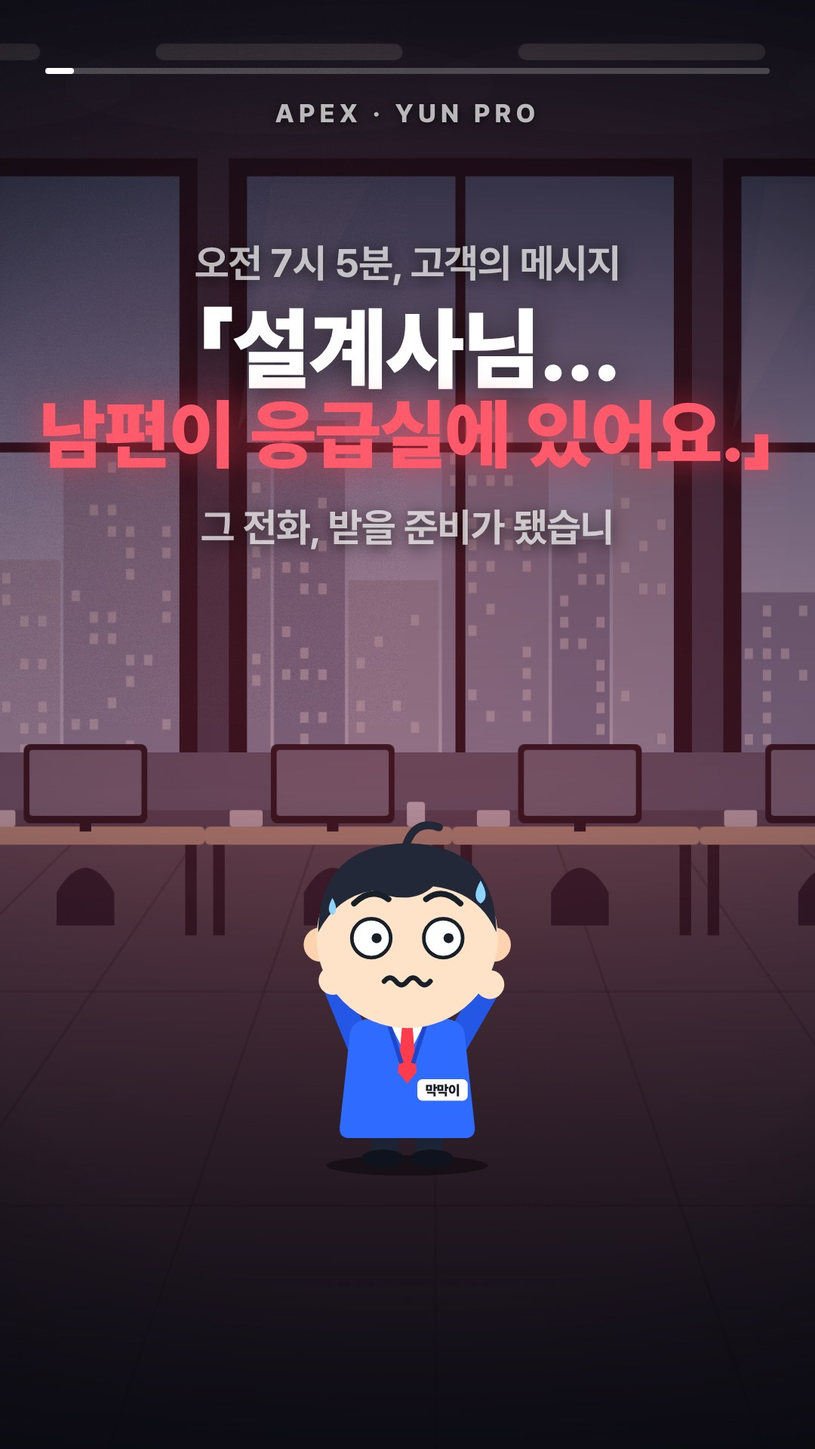
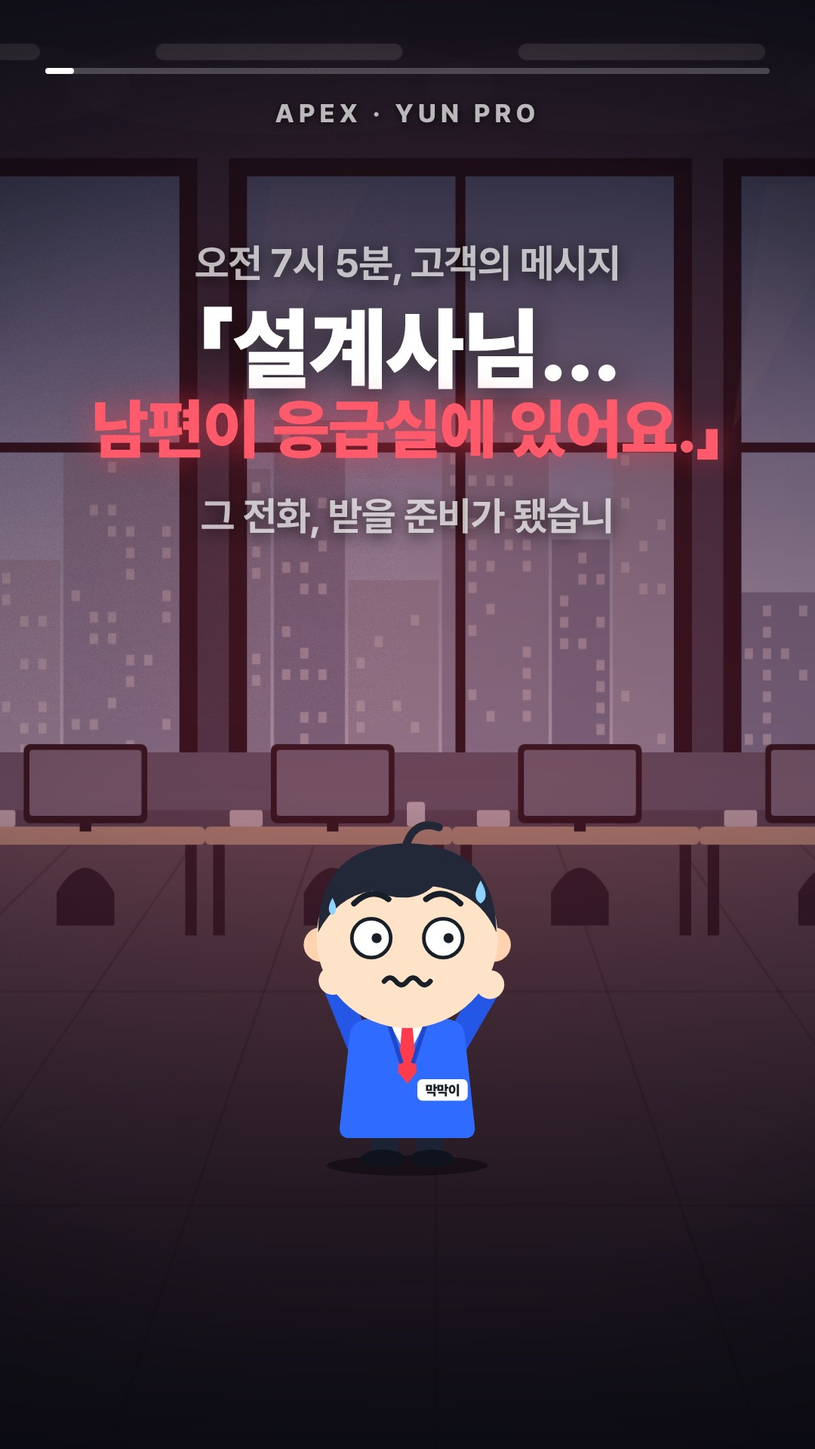
🎬 리쿠르팅 릴스 「전문가를 만듭니다」 — 교육시스템 EM 다섯 챕터 (56초 · 다른 결: 검정 + 금색 다큐형)
- 01 성장 방식(아카데미 · 지인 8주) · 02 관리 방식(TFA 업무관리 · 4년 유지관리) · 03 비대면 상담자료 · 04 미끼 레이더 · 05 상품전략 소식지
- 화면은 전부 실제 앱 · 상품전략기는 상품 145개 · 보험사 31곳 이름을 ○○ 로 바꿔 찍었다
- 「끝까지」 심혈관 편 첫 화면 글씨를 줄여 다시 구움

Claude-Session: https://claude.ai/code/session_01YU4NdkzcuZmggV9ApTAPCn

Changed region(s): [[0.0306, 0.25, 0.9472, 0.375]]

diff --git a/outputs/리쿠르팅릴스/expert.html b/outputs/리쿠르팅릴스/expert.html
@@ -1,0 +1,252 @@
+<!doctype html>
+<html lang="ko">
+<head>
+<meta charset="utf-8">
+<title>전문가를 만듭니다</title>
+<link rel="stylesheet" href="https://cdn.jsdelivr.net/gh/orioncactus/pretendard@v1.3.9/dist/web/static/pretendard.css">
+<style>
+/* 「전문가를 만듭니다」 — 교육시스템 EM 의 다섯 시스템. 끝까지 릴스(story.html)와 다른 결:
+   캐릭터·사무실 없이 검정 + 금색의 다큐형 다섯 챕터. 화면은 전부 <b>실제 앱</b>(shots/em_*) 이고
+   상품·보험사 이름은 찍을 때 ○○ 로 가렸다. 1080×1920 · 30fps · 시간은 render(t) 하나가 정한다. */
+:root{--bg:#06080D;--ink:#fff;--gold:#D9B26A;--gold2:#F3D99A;--sub:rgba(255,255,255,.66);--blue:#6E9BFF;--green:#5BE3A0;--red:#FF6B7A}
+*{box-sizing:border-box;margin:0;padding:0}
+html,body{width:1080px;height:1920px;overflow:hidden;background:var(--bg)}
+body{font-family:Pretendard,sans-serif;color:var(--ink);letter-spacing:-.04em;word-break:keep-all}
+#stage{position:absolute;inset:0;overflow:hidden;background:radial-gradient(1200px 1000px at 50% 30%,#141A2A 0%,#07090F 60%,#030407 100%)}
+#dust,#grain{position:absolute;inset:0;pointer-events:none}
+#grain{opacity:.05;mix-blend-mode:overlay}
+#sweep{position:absolute;top:-400px;left:-600px;width:500px;height:2800px;background:linear-gradient(90deg,transparent,rgba(243,217,154,.10),transparent);transform:rotate(18deg);pointer-events:none}
+#bignum{position:absolute;right:-30px;top:170px;font-size:520px;font-weight:900;line-height:1;color:transparent;-webkit-text-stroke:3px rgba(217,178,106,.18);letter-spacing:-.06em;pointer-events:none}
+#cam{position:absolute;inset:0;transform-origin:50% 45%}
+.scene{position:absolute;inset:0;display:none;flex-direction:column;align-items:center;justify-content:flex-start;padding:330px 70px 420px;text-align:center}
+.scene.mid{justify-content:center}
+.el{display:block;will-change:transform,opacity;white-space:nowrap}
+.big{font-weight:900;line-height:1.06;text-shadow:0 8px 40px rgba(0,0,0,.6)}
+.mdl{font-weight:800;line-height:1.18}
+.sub{font-weight:600;color:var(--sub)}
+.gd{color:var(--gold2);text-shadow:0 0 50px rgba(217,178,106,.45)}
+.hl{color:var(--blue)}.hgr{color:var(--green)}.hr{color:var(--red)}
+.rule{width:120px;height:4px;background:linear-gradient(90deg,transparent,var(--gold),transparent);margin:34px auto}
+.em{display:inline-block;font-size:44px;font-weight:900;letter-spacing:.3em;color:var(--gold);border:2px solid rgba(217,178,106,.6);padding:14px 34px 14px 46px;border-radius:999px}
+.chips{margin-top:46px;white-space:normal;max-width:960px}
+.chip{display:inline-block;margin:10px 8px;padding:18px 28px;border-radius:18px;background:rgba(255,255,255,.05);border:1.5px solid rgba(217,178,106,.4);font-size:42px;font-weight:800}
+.chip b{color:var(--gold);margin-right:12px;font-weight:900}
+.chip.on{background:rgba(217,178,106,.16);border-color:var(--gold2);box-shadow:0 0 40px rgba(217,178,106,.35)}
+/* 챕터 머리 */
+.chno{font-size:34px;font-weight:900;letter-spacing:.32em;color:var(--gold)}
+.chti{font-size:92px;font-weight:900;margin-top:10px}
+.chsub{font-size:46px;font-weight:700;color:var(--sub);margin-top:14px}
+/* 실제 화면 — 가로 카드 / 세로 폰 */
+.card{position:absolute;left:50px;top:640px;width:980px;height:551px;border-radius:30px;overflow:hidden;background:#fff;box-shadow:0 60px 140px rgba(0,0,0,.7),0 0 0 2px rgba(217,178,106,.5),0 0 80px rgba(217,178,106,.18);transform-origin:50% 50%}
+.card img,.ph .sc img{position:absolute;left:0;top:0;width:100%;height:100%;object-fit:cover;object-position:top center}
+.ph{position:absolute;left:110px;top:610px;width:400px;height:840px;border-radius:56px;background:#05070B;border:10px solid #2A2F3A;box-shadow:0 60px 140px rgba(0,0,0,.7),0 0 0 2px rgba(217,178,106,.5);overflow:hidden}
+.ph .sc{position:absolute;inset:0;border-radius:46px;overflow:hidden;background:#fff}
+.tagdz{position:absolute;right:14px;top:12px;z-index:5;font-size:20px;font-weight:800;color:#fff;background:rgba(6,8,13,.78);padding:6px 14px;border-radius:10px}
+.cap{position:absolute;left:50px;right:50px;top:1240px;text-align:center}
+.cap .n{display:inline-block;font-size:30px;font-weight:900;color:var(--bg);background:var(--gold);border-radius:12px;padding:4px 14px;margin-bottom:14px}
+.cap .t{font-size:58px;font-weight:900;line-height:1.22;text-shadow:0 6px 30px rgba(0,0,0,.7)}
+.capR{position:absolute;left:560px;right:50px;top:760px;text-align:left}
+.capR .n{display:inline-block;font-size:30px;font-weight:900;color:var(--bg);background:var(--gold);border-radius:12px;padding:4px 14px;margin-bottom:18px}
+.capR .t{font-size:54px;font-weight:900;line-height:1.25;white-space:normal}
+.fine{position:absolute;left:70px;right:70px;bottom:400px;font-size:25px;line-height:1.55;color:rgba(255,255,255,.5);font-weight:500;text-align:center;white-space:normal}
+.pcard{width:920px;border-radius:40px;background:linear-gradient(160deg,#151B2B,#0B0F18);border:1.5px solid rgba(217,178,106,.55);padding:46px 50px;text-align:left;white-space:normal;box-shadow:0 50px 120px rgba(0,0,0,.6)}
+.pcard .top{display:flex;align-items:center;gap:34px}
+.pcard .av{width:180px;height:180px;border-radius:50%;flex:none;background:linear-gradient(135deg,#3A2E15,#D9B26A);color:#06080D;font-size:92px;font-weight:900;display:flex;align-items:center;justify-content:center;overflow:hidden}
+.pcard .av img{width:100%;height:100%;object-fit:cover}
+.pcard .nm{font-size:74px;font-weight:900}
+.pcard .tt{font-size:31px;font-weight:700;color:var(--sub);margin-top:10px;line-height:1.35}
+.pcard .qt{margin-top:32px;font-size:44px;font-weight:900;line-height:1.3;color:var(--gold2)}
+.pcard .ch{margin-top:24px;display:flex;flex-wrap:wrap;gap:12px}
+.pcard .ch span{font-size:29px;font-weight:800;background:rgba(255,255,255,.07);border:1px solid rgba(255,255,255,.15);border-radius:999px;padding:12px 22px}
+.box{display:inline-block;background:var(--gold);color:#06080D;padding:12px 30px;border-radius:16px}
+#bar{position:absolute;left:60px;right:60px;top:90px;height:6px;border-radius:6px;background:rgba(255,255,255,.14)}
+#bar i{display:block;height:100%;width:0;border-radius:6px;background:var(--gold)}
+#brand{position:absolute;left:0;right:0;top:126px;text-align:center;font-size:32px;font-weight:800;letter-spacing:.2em;color:rgba(217,178,106,.85)}
+#flash{position:absolute;inset:0;background:#F3D99A;opacity:0;pointer-events:none;mix-blend-mode:screen}
+</style>
+</head>
+<body>
+<div id="stage">
+  <canvas id="dust" width="1080" height="1920"></canvas>
+  <div id="sweep"></div>
+  <div id="bignum"></div>
+  <div id="cam">
+    <div class="scene mid" id="s0" data-t="0,3.2">
+      <span class="el mdl" style="font-size:96px" data-a="up" data-in="0.1">우리는 설계사를</span>
+      <span class="el big" style="font-size:150px;margin-top:14px" data-a="slam" data-in="0.75">뽑지 않습니다.</span>
+    </div>
+    <div class="scene mid" id="s1" data-t="3.2,6.4">
+      <span class="el big gd" style="font-size:190px" data-a="slam" data-in="3.3">전문가를</span>
+      <span class="el big" style="font-size:190px" data-a="slam" data-in="3.9">만듭니다.</span>
+    </div>
+    <div class="scene" id="s2" data-t="6.4,10">
+      <span class="el" data-a="pop" data-in="6.5"><span class="em">교육시스템 EM</span></span>
+      <div class="rule el" data-a="up" data-in="6.8"></div>
+      <span class="el mdl" style="font-size:70px" data-a="up" data-in="7.0">다섯 개의 시스템이</span>
+      <span class="el big" style="font-size:96px" data-a="slam" data-in="7.4">한 사람을 바꿉니다</span>
+      <div class="chips" id="chips0"></div>
+    </div>
+    <div id="chapters"></div>
+    <div class="scene mid" id="s8" data-t="41,45">
+      <div class="chips" id="chips1" style="margin:0 0 60px"></div>
+      <span class="el mdl" style="font-size:84px" data-a="up" data-in="42.4">다섯 개의 시스템,</span>
+      <span class="el big gd" style="font-size:132px;margin-top:10px" data-a="slam" data-in="43.0">한 사람의 전문가.</span>
+    </div>
+    <div class="scene" id="s9" data-t="45,49">
+      <span class="el mdl" style="font-size:66px" data-a="up" data-in="45.0">함께 걸어갈</span>
+      <span class="el big" style="font-size:104px;margin-bottom:46px" data-a="slam" data-in="45.4">리더를 소개합니다</span>
+      <div class="pcard el" data-a="drop" data-in="45.9">
+        <div class="top"><div class="av" id="pAv"></div><div><div class="nm" id="pNm"></div><div class="tt" id="pTt"></div></div></div>
+        <div class="qt" id="pQt"></div>
+        <div class="ch" id="pCh"></div>
+      </div>
+    </div>
+    <div class="scene mid" id="s10" data-t="49,51.8">
+      <span class="el mdl" style="font-size:92px" data-a="up" data-in="49.0">전문가는</span>
+      <span class="el mdl" style="font-size:92px" data-a="up" data-in="49.5">타고나지 않습니다.</span>
+      <span class="el big gd" style="font-size:170px;margin-top:40px" data-a="slam" data-in="50.3">만들어집니다.</span>
+    </div>
+    <div class="scene" id="s11" data-t="51.8,56">
+      <span class="el big" style="font-size:112px" data-a="slam" data-in="51.8">함께할 <span class="gd">설계사</span>를</span>
+      <span class="el big" style="font-size:112px" data-a="slam" data-in="52.2">찾습니다.</span>
+      <span class="el sub" style="font-size:54px;margin-top:30px" data-a="up" data-in="52.8">처음이어도 괜찮습니다.</span>
+      <span class="el" style="margin-top:44px" data-a="stamp" data-rot="-2" data-in="53.3"><span class="box" style="font-size:60px;font-weight:900" id="ctaAsk"></span></span>
+      <span class="el" id="ctaWho" style="font-size:38px;font-weight:900;letter-spacing:.04em;margin-top:30px;color:rgba(255,255,255,.88)" data-a="up" data-in="53.8"></span>
+      <div class="fine el" data-a="up" data-in="54.1">보험설계사로 일하려면 자격시험 합격과 등록 절차가 필요합니다. 수입은 활동과 성과에 따라 사람마다 다릅니다.<br>화면의 고객·숫자는 견본이며, 상품·보험사 이름은 가렸습니다.</div>
+    </div>
+  </div>
+  <div id="bar"><i></i></div>
+  <div id="brand">APEX · YUN PRO</div>
+  <canvas id="grain" width="540" height="960"></canvas>
+  <div id="flash"></div>
+</div>
+<script>
+// ───────── 나를 알리는 칸 (story.html 과 같은 값) ─────────
+var PROFILE={name:'윤시현',title:'에이플러스에셋 온탑본부 사업단장',career:'보험·재무설계 10년',
+  slogan:'보험을 파는 설계사가 아닌,<br>삶을 설계하는 설계사',channels:['▶ 유튜브 「윤단장의 보험시선」','📷 인스타그램'],
+  ask:'📩 DM 으로 면담 신청',handle:'',photo:''};
+
+// ───────── 다섯 챕터 — 실제 앱 화면 (kind: card 가로 · phone 세로) ─────────
+var CH=[
+ {no:'01',ti:'성장 방식',sub:'상품명이 아니라, 위험을 관리하는 사람으로',a:10,b:16,kind:'card',
+  it:[{src:'em_academy',t:'보험 마스터 아카데미 — 10단계<br><span class="gd">신입 6개월, 두 갈래로 갈립니다</span>'},
+      {src:'em_jiin',   t:'지인 8주 성장 프로그램<br><span class="gd">부탁하지 않고, 챙겨서</span> 가까워지는 법'}]},
+ {no:'02',ti:'관리 방식',sub:'오늘 할 일부터 4년 뒤까지',a:16,b:22,kind:'phone',
+  it:[{src:'em_tfa',  t:'TFA 업무관리<br>피드백 · 할 일 · 고객 체크<br><span class="gd">팀원 관리까지 한 칸에</span>'},
+      {src:'em_keep4',t:'4년 유지관리<br><span class="gd">48개월, 한 달도<br>비지 않게</span>'}]},
+ {no:'03',ti:'비대면 상담자료',sub:'만나지 않아도, 신뢰는 전해집니다',a:22,b:28,kind:'card',
+  it:[{src:'em_sd0',t:'내 이름 · 사진이 박힌<br><span class="gd">고객 상담자료</span>'},
+      {src:'em_sd1',t:'「가입까지가 아니라,<br><span class="gd">받으실 때까지</span>」'},
+      {src:'em_sd3',t:'고객이 직접 누르며 답하는<br><span class="gd">질문지</span>'}]},
+ {no:'04',ti:'미끼 레이더',sub:'작은 담보로, 큰 니즈를 엽니다',a:28,b:34,kind:'card',
+  it:[{src:'em_mikki', t:'하루 30분 루틴<br><span class="gd">뉴스 · 신상품 1건 · 고객 3명</span>'},
+      {src:'em_mktalk',t:'미끼상품&접촉전략 — 6파트 38강<br><span class="gd">기획·제작 윤시현 사업단장</span>'}]},
+ {no:'05',ti:'상품전략 소식지',sub:'소식지를 넣으면 — 전부 비교합니다',a:34,b:41,kind:'card',
+  it:[{src:'em_ins_home', t:'보험사 31곳 · 145개 상품을<br><span class="gd">고객 입장에서 다시 읽었습니다</span>'},
+      {src:'em_ins_terms',t:'같은 조건을 나란히 —<br><span class="gd">약관 원문으로 비교</span>'}]}
+];
+var CHIPS=CH.map(function(c){return '<span class="el chip" style="display:inline-block" data-a="pop"><b>'+c.no+'</b>'+c.ti+'</span>';}).join('');
+document.getElementById('chips0').innerHTML=CHIPS; document.getElementById('chips1').innerHTML=CHIPS;
+[].slice.call(document.querySelectorAll('#chips0 .chip')).forEach(function(e,i){e.setAttribute('data-in',(7.9+i*0.18).toFixed(2));});
+[].slice.call(document.querySelectorAll('#chips1 .chip')).forEach(function(e,i){e.setAttribute('data-in',(41.1+i*0.22).toFixed(2));});
+var h='';
+CH.forEach(function(c,k){
+  var a=c.a,b=c.b,n=c.it.length,t0=a+0.7,dl=(b-t0-0.1)/n; c.t0=t0; c.dl=dl;
+  h+='<div class="scene" id="ch'+k+'" data-t="'+a+','+b+'">'+
+    '<span class="el chno" data-a="up" data-in="'+a+'">CHAPTER '+c.no+'</span>'+
+    '<span class="el chti" data-a="slam" data-in="'+(a+0.15)+'">'+c.ti+'</span>'+
+    '<span class="el chsub" data-a="up" data-in="'+(a+0.45)+'">'+c.sub+'</span>'+
+    (c.kind==='card'
+      ? '<div class="card el" data-a="tilt" data-in="'+(a+0.3)+'"><span class="tagdz">실제 앱 · 견본</span><div id="cd'+k+'"></div></div>'+
+        '<div class="cap" id="cp'+k+'"><span class="n" id="cn'+k+'"></span><div class="t" id="ct'+k+'"></div></div>'
+      : '<div class="ph el" data-a="tilt" data-in="'+(a+0.3)+'"><div class="sc" id="cd'+k+'"></div></div>'+
+        '<div class="capR" id="cp'+k+'"><span class="n" id="cn'+k+'"></span><div class="t" id="ct'+k+'"></div></div>')+
+    '</div>';
+});
+document.getElementById('chapters').innerHTML=h;
+CH.forEach(function(c,k){
+  var box=document.getElementById('cd'+k);
+  box.innerHTML=c.it.map(function(d){return '<img src="shots/'+d.src+'.jpg">';}).join('');
+  c.imgs=[].slice.call(box.querySelectorAll('img'));
+});
+(function(){var av=document.getElementById('pAv');
+  if(PROFILE.photo)av.innerHTML='<img src="'+PROFILE.photo+'">';else av.textContent=PROFILE.name.charAt(0);
+  document.getElementById('pNm').textContent=PROFILE.name;
+  document.getElementById('pTt').innerHTML=PROFILE.title+'<br>'+PROFILE.career;
+  document.getElementById('pQt').innerHTML='“'+PROFILE.slogan+'”';
+  document.getElementById('pCh').innerHTML=PROFILE.channels.concat(PROFILE.handle?[PROFILE.handle]:[]).map(function(c){return '<span>'+c+'</span>';}).join('');
+  document.getElementById('ctaAsk').textContent=PROFILE.ask;
+  document.getElementById('ctaWho').textContent=(PROFILE.handle?PROFILE.handle+' · ':'')+PROFILE.name+' · '+PROFILE.title;})();
+
+var TOTAL=56, BEAT=0.5;
+function clamp(x,a,b){return x<a?a:x>b?b:x;}
+function eo(x){return 1-Math.pow(1-x,3);}
+function eio(x){return x<.5?4*x*x*x:1-Math.pow(-2*x+2,3)/2;}
+function back(x){var c=1.9;return 1+(c+1)*Math.pow(x-1,3)+c*Math.pow(x-1,2);}
+function rnd(n){var x=Math.sin(n*12.9898)*43758.5453;return x-Math.floor(x);}
+var scenes=[].slice.call(document.querySelectorAll('.scene')).map(function(s){var r=s.getAttribute('data-t').split(',').map(Number);
+  return {el:s,a:r[0],b:r[1],items:[].slice.call(s.querySelectorAll('.el'))};});
+
+function anim(e,t){
+  var a=e.getAttribute('data-a'),t0=+e.getAttribute('data-in'),d=t-t0;
+  if(d<0){e.style.opacity=0;e.style.transform='none';return;}
+  var tf='',op=1;
+  if(a==='slam'){var p=clamp(d/0.2,0,1);op=p;tf='scale('+(1.9-0.9*eo(p))+')';}
+  else if(a==='stamp'){var p2=clamp(d/0.2,0,1),rt=+(e.getAttribute('data-rot')||-6);tf='rotate('+((rt+2)*eo(p2)-2)+'deg) scale('+(2.4-1.4*eo(p2))+')';op=p2;}
+  else if(a==='up'){var p3=clamp(d/0.35,0,1);tf='translateY('+(60*(1-eo(p3)))+'px)';op=p3;}
+  else if(a==='pop'){var p4=clamp(d/0.32,0,1);tf='scale('+(0.5+0.5*back(p4))+')';op=clamp(p4*2,0,1);}
+  else if(a==='drop'){var p5=clamp(d/0.4,0,1);tf='translateY('+(-120*(1-eo(p5)))+'px)';op=clamp(p5*1.6,0,1);}
+  else if(a==='tilt'){var p6=clamp(d/0.6,0,1);   // 실제 화면이 비스듬히 떠올라 바로 선다 · 그 뒤 천천히 숨 쉰다
+    tf='perspective(1800px) translateY('+(260*(1-eo(p6))+Math.sin(t*1.3)*6)+'px) rotateX('+(18*(1-eo(p6)))+'deg) rotateY('+(-14*(1-eo(p6))+Math.sin(t*0.9)*1.5)+'deg)';op=clamp(p6*1.8,0,1);}
+  e.style.opacity=op;e.style.transform=tf||'none';
+}
+// 한 장씩 넘기고, 넘어온 장은 천천히 다가온다
+function flip(c,k,t){
+  var L=c.it,i=clamp(Math.floor((t-c.t0)/c.dl),0,L.length-1),d=t-c.t0-i*c.dl;
+  c.imgs.forEach(function(im,j){
+    if(j===i){var p=clamp(d/0.4,0,1);im.style.display='block';im.style.opacity=i?eo(p):1;im.style.transform='scale('+(1.0+0.06*clamp(d/c.dl,0,1))+')';im.style.zIndex=2;}
+    else if(j===i-1&&d<0.4){im.style.display='block';im.style.opacity=1;im.style.zIndex=1;}
+    else im.style.display='none';});
+  document.getElementById('cn'+k).textContent=(i+1)+' / '+L.length; document.getElementById('ct'+k).innerHTML=L[i].t;
+  var cp=document.getElementById('cp'+k),q=clamp(d/0.3,0,1); cp.style.opacity=t<c.t0?0:q; cp.style.transform='translateY('+(30*(1-eo(q)))+'px)';
+}
+// 금빛 먼지 — 늘 천천히 떠오른다 (배경이 멈춰 있지 않게)
+var dctx=document.getElementById('dust').getContext('2d');
+function dust(t){dctx.clearRect(0,0,1080,1920);
+  for(var i=0;i<70;i++){var x=rnd(i*3.1)*1080+Math.sin(t*0.3+i)*30, y=(rnd(i*7.7)*2200-(t*(18+rnd(i)*40)))%2200; if(y<0)y+=2200; y-=140;
+    var r=1+rnd(i*1.3)*3.2, a=0.15+0.5*rnd(i*5.1)*(0.6+0.4*Math.sin(t*2+i));
+    dctx.fillStyle='rgba(243,217,154,'+a.toFixed(3)+')';dctx.beginPath();dctx.arc(x,y,r,0,6.283);dctx.fill();}}
+var gctx=document.getElementById('grain').getContext('2d'),gimg=gctx.createImageData(540,960);
+var cam=document.getElementById('cam'),flash=document.getElementById('flash'),bar=document.querySelector('#bar i'),sweep=document.getElementById('sweep'),bignum=document.getElementById('bignum');
+var IMPACTS=[];scenes.forEach(function(s){s.items.forEach(function(e){var a=e.getAttribute('data-a');if(a==='slam'||a==='stamp'){var v=+e.getAttribute('data-in');if(IMPACTS.indexOf(v)<0)IMPACTS.push(v);}});});
+var CUTS=[3.2,6.4,10,16,22,28,34,41,45,49,51.8];
+function render(t){
+  bar.style.width=(100*t/TOTAL)+'%';
+  dust(t);
+  var sw=((t%6)/6); sweep.style.transform='translateX('+(sw*2600)+'px) rotate(18deg)';
+  var cur=null;CH.forEach(function(c,k){if(t>=c.a&&t<c.b)cur=c;});
+  bignum.textContent=cur?cur.no:''; bignum.style.opacity=cur?clamp((t-cur.a)/0.5,0,1)*0.9:0;
+  bignum.style.transform='translateY('+(cur?(-30*(t-cur.a)):0)+'px)';
+  scenes.forEach(function(s){var on=t>=s.a&&t<s.b;s.el.style.display=on?'flex':'none';if(!on)return;
+    var w=clamp((t-s.a)/0.18,0,1);s.el.style.opacity=s.a>0?eo(w):1;s.el.style.filter=s.a>0&&w<1?'blur('+(12*(1-w))+'px)':'none';
+    s.items.forEach(function(e){anim(e,t);});});
+  CH.forEach(function(c,k){if(t>=c.a&&t<c.b)flip(c,k,t);});
+  // 끝에서 다섯 칩이 하나씩 켜진다
+  [].slice.call(document.querySelectorAll('#chips1 .chip')).forEach(function(e,i){e.classList.toggle('on',t>=41.6+i*0.22);});
+  var ph=(t%BEAT)/BEAT,pulse=0.008*Math.exp(-ph*6),punch=0;
+  IMPACTS.forEach(function(i){var d=t-i;if(d>=0&&d<0.35)punch=Math.max(punch,0.035*Math.exp(-d*12));});
+  cam.style.transform='scale('+(1+pulse+punch)+')';
+  var f=0;CUTS.forEach(function(c){var d=t-c;if(d>=0&&d<0.2)f=Math.max(f,0.28*(1-d/0.2));});flash.style.opacity=f;
+  var seed=Math.floor(t*30),d8=gimg.data;for(var i=0;i<d8.length;i+=4){var v=rnd(i*0.37+seed*7.1)*255;d8[i]=d8[i+1]=d8[i+2]=v;d8[i+3]=255;}gctx.putImageData(gimg,0,0);
+}
+window.REEL={total:TOTAL,fps:30,prefix:'전문가릴스',cues:function(){
+  var ins=function(sel){return [].slice.call(document.querySelectorAll(sel)).map(function(e){return +e.getAttribute('data-in');});};
+  return {total:TOTAL,impacts:IMPACTS,cuts:CUTS,pops:ins('[data-a="pop"],[data-a="drop"],[data-a="tilt"]'),ticks:[],types:[],
+    soft:[[0,10],[41,51.8]],sparse:[],uhoh:[],dings:CH.map(function(c){return c.a;}).concat([43.0,50.3]),
+    hush:[50.05,50.3],riser:[49.0,50.05]};
+},ready:function(){return Promise.all([].slice.call(document.images).map(function(i){return i.decode().catch(function(){});})).then(function(){render(0);});}};
+window.render=render;
+render(0);
+</script>
+</body>
+</html>

diff --git a/outputs/리쿠르팅릴스/story.html b/outputs/리쿠르팅릴스/story.html
@@ -356,7 +356,7 @@ var VARIANTS = {
         {src:'tx_rep20',z:1.18,fx:.35,fy:.45,t:'재활·간병 3개월<br>270만원 → <span class="hgr">1,620만원</span>'},
         {src:'tx_rep24',z:1.15,fx:.85,fy:.55,t:'한 바퀴를 돌면<br>지금 2,360만원 → <span class="hgr">9,310만원</span>'}]},
   heart:{bg:'day',tint:'red',mood:'panic',
-    lines:['<span class="el sub" style="font-size:52px" data-a="up" data-in="0.05">오전 7시 5분, 고객의 메시지</span>','<span class="el big" style="font-size:118px;margin-top:20px" data-a="slam" data-in="0.6">「설계사님…</span>','<span class="el big" style="font-size:100px" data-a="slam" data-in="1.1"><span class="hr">남편이 응급실에 있어요.」</span></span>','<span class="el sub" style="font-size:52px;margin-top:40px" data-a="type" data-in="1.7" data-dur="1.0">그 전화, 받을 준비가 됐습니까?</span>'],
+    lines:['<span class="el sub" style="font-size:52px" data-a="up" data-in="0.05">오전 7시 5분, 고객의 메시지</span>','<span class="el big" style="font-size:118px;margin-top:20px" data-a="slam" data-in="0.6">「설계사님…</span>','<span class="el big" style="font-size:86px" data-a="slam" data-in="1.1"><span class="hr">남편이 응급실에 있어요.」</span></span>','<span class="el sub" style="font-size:52px;margin-top:40px" data-a="type" data-in="1.7" data-dur="1.0">그 전화, 받을 준비가 됐습니까?</span>'],
     m1:'가슴이 아프다더니 심근경색이래요… 어떡하죠?',t1:'오전 7:05',
     m2:'남편 퇴원했어요. 그날 바로 챙겨 주셔서 정말 고마워요 🙏',t2:'오후 6:40',
     tx:[{src:'tx_rep26',z:1.0, fx:.5, fy:.5, t:'급성심근경색 — 응급부터 심장재활까지<br><span class="hl">사진으로 한 바퀴</span>'},

diff --git a/outputs/리쿠르팅릴스/render.js b/outputs/리쿠르팅릴스/render.js
@@ -1,6 +1,7 @@
 // 릴스 굽기 — node render.js [reel|story] [A B C]
 //   reel  : 23.5초 글자형 (reel.html)
-//   story : 43.5초 막막이 이야기형 (story.html) — A B C D (D 는 나를 알리기)
+//   story : 65초 끝까지 (story.html) — 상황 넷 cancer brain heart care
+//   expert: 56초 전문가를 만듭니다 (expert.html) — 교육시스템 EM 다섯 챕터
 // reel.html 을 1080×1920 으로 열어 render(t) 를 한 장씩 부르고 찍어 ffmpeg 로 넘긴다.
 // 비트는 beat.py 가 화면의 순간(쾅·휙·딸깍)에 맞춰 합성한다.
 const { chromium } = require('playwright');
@@ -14,10 +15,11 @@ const TMP = process.env.REEL_TMP || path.join(require('os').tmpdir(), 'reel');
 fs.mkdirSync(OUT, { recursive: true });
 fs.mkdirSync(TMP, { recursive: true });
 const NAMES = { A: 'A_직장인', B: 'B_육아맘', C: 'C_경력설계사', D: 'D_나를알리기',
-  cancer: '1_암', brain: '2_뇌혈관', heart: '3_심혈관', care: '4_돌봄' };   // story 는 상황 넷
+  cancer: '1_암', brain: '2_뇌혈관', heart: '3_심혈관', care: '4_돌봄',   // story 는 상황 넷
+  main: '교육시스템EM' };                                                    // expert 는 한 편
 let args = process.argv.slice(2);
-const PAGE = /^(reel|story)$/.test(args[0] || '') ? args.shift() : 'reel';
-const want = args.length ? args : (PAGE === 'story' ? ['cancer', 'brain', 'heart', 'care'] : ['A', 'B', 'C']);
+const PAGE = /^(reel|story|expert)$/.test(args[0] || '') ? args.shift() : 'reel';
+const want = args.length ? args : (PAGE === 'story' ? ['cancer', 'brain', 'heart', 'care'] : PAGE === 'expert' ? ['main'] : ['A', 'B', 'C']);
 
 (async () => {
   const browser = await chromium.launch();

diff --git a/outputs/리쿠르팅릴스/tools/snap-page.js b/outputs/리쿠르팅릴스/tools/snap-page.js
@@ -28,7 +28,7 @@ const srv = http.createServer((q, rs) => {
   pg.on('dialog', d => d.accept());
   await pg.goto('http://127.0.0.1:' + port + '/' + PAGE, { waitUntil: 'load', timeout: 90000 });
   await pg.waitForTimeout(3500);
-  if (PRE) { await pg.evaluate(PRE).catch(e => errs.push('PRE ' + e.message)); await pg.waitForTimeout(1500); }
+  if (PRE) { const rv = await pg.evaluate(PRE).catch(e => { errs.push('PRE ' + e.message); }); if (rv !== undefined) console.log('미리 할 일 →', rv); await pg.waitForTimeout(1500); }
   const out = path.join(OUTD, (NAME || path.basename(PAGE, '.html')) + '.png');
   if (SEL) {
     const vis = await pg.evaluate(sel => { const e = document.querySelector(sel); if (!e) return 'none'; const r = e.getBoundingClientRect(); return r.width + 'x' + r.height + ' ' + getComputedStyle(e).display; }, SEL);

diff --git a/outputs/리쿠르팅릴스/README.md b/outputs/리쿠르팅릴스/README.md
@@ -7,8 +7,36 @@
 | **끝까지 (이야기형 · 지금 판)** | 65초 | `out/끝까지릴스_1_암 · 2_뇌혈관 · 3_심혈관 · 4_돌봄.mp4` — **상황마다 한 편** | `story.html` |
 | 글자형 (첫 판 · 「무기」 말투) | 23.5초 | `out/리쿠르팅릴스_*.mp4` | `reel.html` |
 
+| **전문가를 만듭니다 (교육시스템 EM)** | 56초 | `out/전문가릴스_교육시스템EM.mp4` | `expert.html` |
+
 영상(mp4)은 저장소에 넣지 않습니다 — netlify 가 저장소 루트를 통째로 게시해 라이브 사이트에 올라가기 때문입니다.
 `node render.js story` 로 다시 굽습니다.
+
+## 전문가를 만듭니다 — 교육시스템 EM 다섯 챕터 (`expert.html`)
+
+「끝까지」 와 **다른 결**입니다 — 캐릭터 · 사무실 없이 검정 + 금색 다큐형. 금빛 먼지가 늘 떠오르고, 챕터마다 큰 번호가 뒤에 깔리며
+실제 앱 화면이 비스듬히 떠올라 섭니다. 화면은 전부 실제 앱(`shots/em_*`)이고 상품·보험사 이름은 찍을 때 가렸습니다.
+
+| 초 | 장면 |
+|---|---|
+| 0–6.4 | **우리는 설계사를 뽑지 않습니다. 전문가를 만듭니다.** |
+| 6.4–10 | 교육시스템 EM — 다섯 개의 시스템이 한 사람을 바꿉니다 |
+| 10–16 | **01 성장 방식** — 보험 마스터 아카데미(신입 6개월, 두 갈래) · 지인 8주 성장 프로그램 |
+| 16–22 | **02 관리 방식** — TFA 업무관리(피드백 · 할 일 · 고객 체크 · 팀원 관리) · 4년 유지관리 48개월 |
+| 22–28 | **03 비대면 상담자료** — 내 이름·사진이 박힌 상담자료 · 「가입까지가 아니라, 받으실 때까지」 · 고객이 누르는 질문지 |
+| 28–34 | **04 미끼 레이더** — 하루 30분 루틴 · 미끼상품&접촉전략 6파트 38강(기획·제작 윤시현 사업단장) |
+| 34–41 | **05 상품전략 소식지** — 보험사 31곳 소식지 → 145개 상품을 고객 입장에서 · 같은 조건 약관 원문 비교 |
+| 41–45 | 다섯 개의 시스템, **한 사람의 전문가.** |
+| 45–49 | 리더 소개 카드 |
+| 49–56 | 전문가는 타고나지 않습니다. **만들어집니다.** → 함께할 설계사를 찾습니다 · DM 으로 면담 신청 |
+
+- EM 운영센터 사이트(업적 · 시책 · 월급 정산)는 앱 밖의 따로 된 주소라 찍지 않았습니다. 「교육시스템 EM 이 주는 다섯 시스템」 으로 묶어 앱 화면으로 보여 줍니다.
+- 상품전략기는 「판매인 교육용 · 고객 제시 불가」 화면입니다. 찍을 때 상품 145개 · 보험사 31곳 이름을 모두 「○○ 상품 N · ○○손보/생명」 으로 바꾸고, 약관 비교 표의 상품명 조각까지 가렸습니다.
+- 비대면 상담자료의 「국민이 못 받는 보험금 매년 1조 원」 장은 통계 숫자라 광고에서 뺐습니다. 신입 TA 교육 화면은 외부 카페·기사 링크가 보여 쓰지 않았습니다.
+
+```bash
+node render.js expert     # 한 편 (3분쯤)
+```
 
 ## 끝까지 — 고객을 끝까지, 설계사를 끝까지 돕습니다
 
